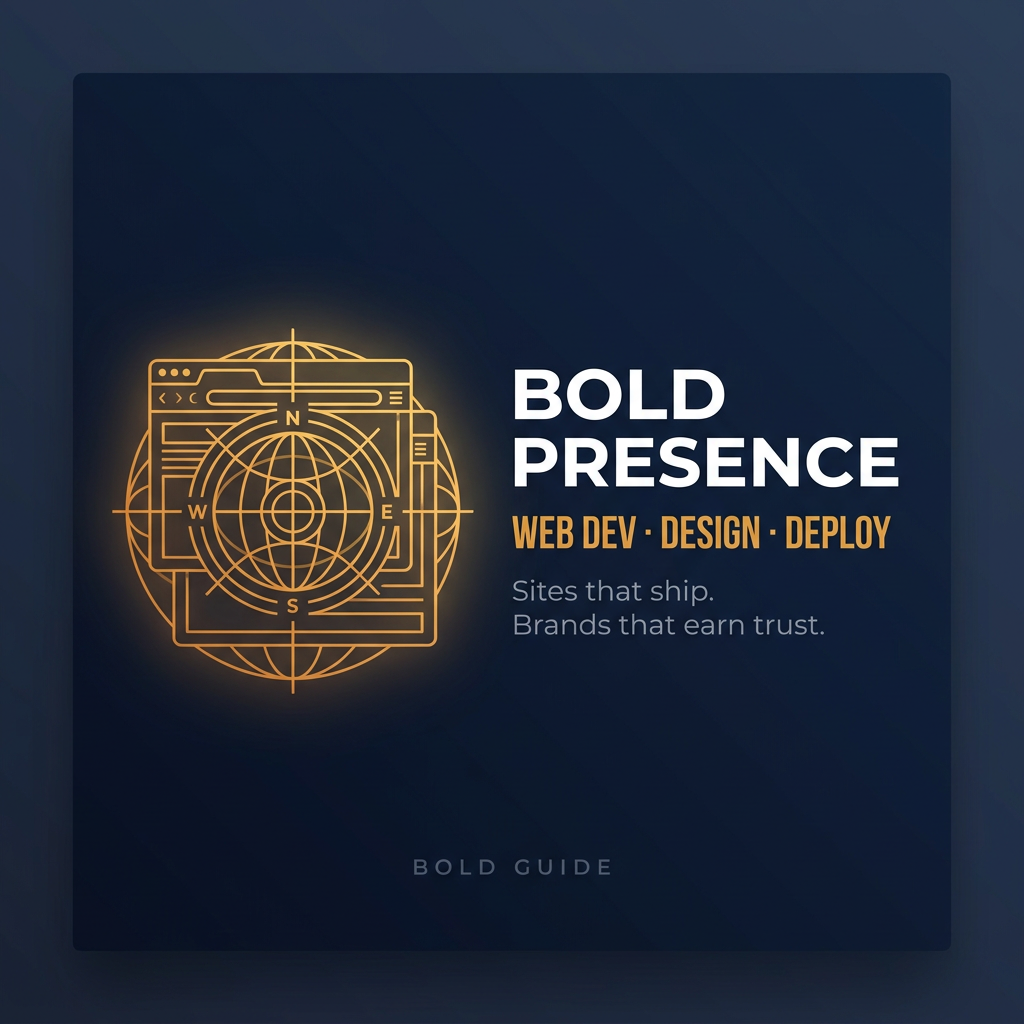
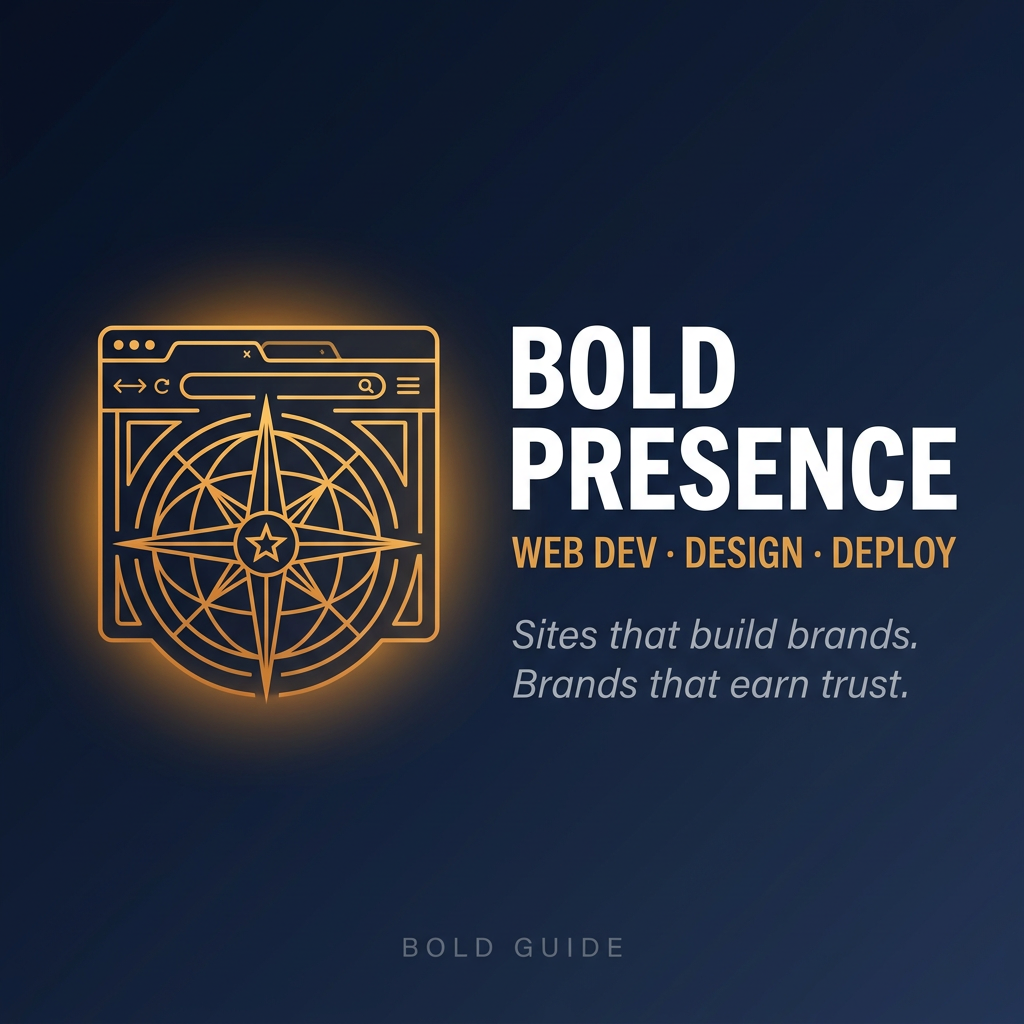
Bold Presence tagline: 'Sites that build brands. Brands that earn trust.' (cover regen + H1 + card subhead, EN/ES)

diff --git a/web-design/index.html b/web-design/index.html
@@ -249,8 +249,8 @@
           <span data-lang="es">Bold Presence · Servicios web freelance de Bold Guide LLC</span>
         </span>
         <h1>
-          <span data-lang="en">Websites that <span class="accent">ship</span> —<br/>not websites that drag.</span>
-          <span data-lang="es">Sitios que se <span class="accent">lanzan</span> —<br/>no sitios que se atascan.</span>
+          <span data-lang="en">Sites that <span class="accent">build brands</span>.<br/>Brands that earn trust.</span>
+          <span data-lang="es">Sitios que <span class="accent">construyen marcas</span>.<br/>Marcas que generan confianza.</span>
         </h1>
         <p class="lede">
           <span data-lang="en">Web design, development, and deployment by one founder. Two ways to work with me: a 4-week premium build, or à-la-carte work paid only for what you need. Solo-built. Buyer-tested.</span>

diff --git a/index.html b/index.html
@@ -561,7 +561,7 @@
               <span class="tag green">Contract-backed</span>
             </div>
             <h3>Bold Presence — Web Dev · Design · Deploy</h3>
-            <p style="font-style:italic; color:var(--navy); font-weight:500;">"Sites that ship. Brands that earn trust — without the agency invoice."</p>
+            <p style="font-style:italic; color:var(--navy); font-weight:500;">"Sites that build brands. Brands that earn trust."</p>
             <p>Independent web service from the founder of Bold Guide LLC. Branding, build, deployment, and social setup. Pay per piece or get the full premium build with Stripe, Google Workspace, and social launch included.</p>
             <ul class="feature-list">
               <li><strong>Premium Build — $997</strong> · 4 weeks · ~32 hrs · 3 major revisions · Stripe + Google Workspace + 4 social platforms</li>